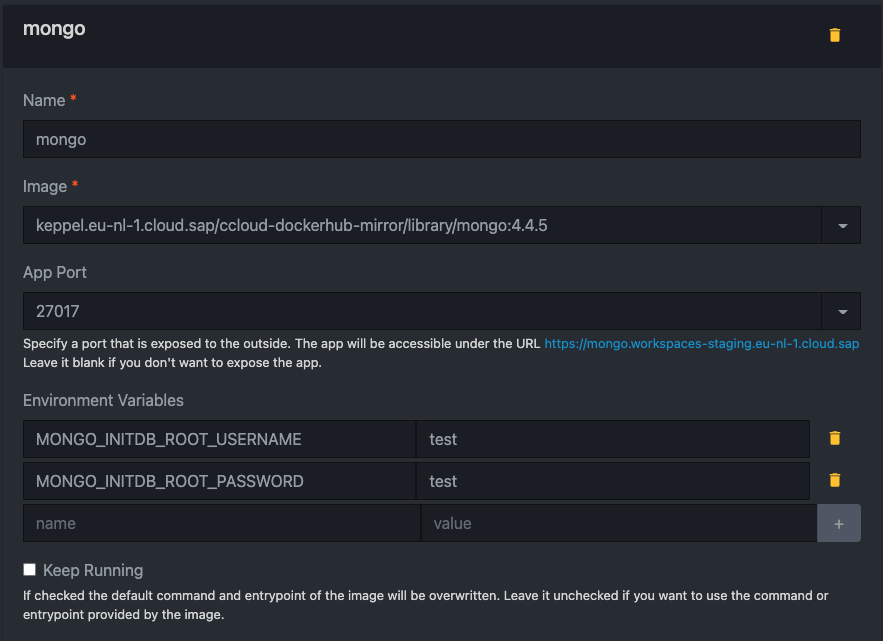
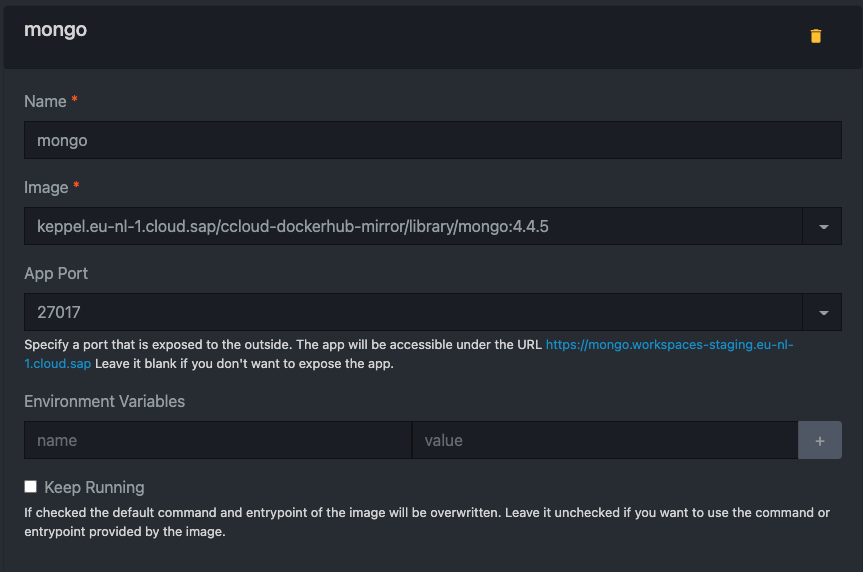
mercury: auhtentication checks added

diff --git a/apis/mercury/src/index.js b/apis/mercury/src/index.js
@@ -1,36 +1,43 @@
 require("dotenv").config()
-const { ApolloServer } = require("apollo-server")
-const fs = require("fs")
-const path = require("path")
-const resolvers = require("./resolvers")
-const { connect, close, db } = require("./dataStore")
-const { validateToken } = require("./tokenHandler")
 
+const {
+  ApolloServer,
+  AuthenticationError,
+  ForbiddenError,
+} = require("apollo-server")
+
+const typeDefs = require("./graphql/typeDefs")
+const resolvers = require("./graphql/resolvers")
+
+const { connect, getDB, close } = require("./dataStore")
+const { verifyAuthToken } = require("./identityProvider.js")
+
+// Create Apollo Server
 const server = new ApolloServer({
-  typeDefs: fs.readFileSync(path.join(__dirname, "schema.graphql"), "utf8"),
+  typeDefs,
   resolvers,
   cors: {
     origin: /.*\.cloud\.sap$/,
   },
-  context: async ({ req, res }) => {
-    // Get the user token from the headers.
-    // TODO: validate token against keystone and cache the verification if possible.
-    const token = req.headers["x-auth-token"] || ""
-    if (!token) {
-      return res
-        .status(401)
-        .send("No token provided. Could not find x-auth-token header!")
-    }
-    console.log("Token is presented!")
+  context: async ({ req }) => {
+    // The context function is executed before the Resolvers on each request!
 
-    const tokenPayload = await validateToken(token).catch((e) => {
-      console.log("ERROR:", e)
-      res.status(403).send("Could not validate token.")
+    // get authToken from headers
+    const authToken = req.headers["x-auth-token"] || ""
+    // ensure authToken is presented
+    if (!authToken)
+      throw new AuthenticationError(
+        "No auth token provided. Could not find x-auth-token header!"
+      )
+    // verify authToken from the Identity Provider (Keystone)
+    const tokenPayload = await verifyAuthToken(authToken).catch((e) => {
+      throw new ForbiddenError(e)
     })
-    if (!tokenPayload) return res.status(403).send("Could not validate token.")
-    console.log("Token is valid!")
 
-    return { db: db(), user: tokenPayload ? tokenPayload.user : null }
+    // get database
+    const db = getDB()
+    // enrich the context with authToken, token payload and database
+    return { authToken, tokenPayload, db }
   },
 })
 
@@ -38,10 +45,10 @@ server
   .listen({ port: process.env.PORT })
   .then(({ url }) => console.log(`Server is running on ${url}`))
   .then(() => {
-    console.log("Connect to database...")
-    connect()
+    console.log("Connect to the database...")
+    return connect()
   })
-  .then(() => console.log("connected!"))
+  .then(() => console.log("Connected!"))
 
 // close database connection on exit
 process.on("exit", close)

diff --git a/apis/mercury/src/dataStore.js b/apis/mercury/src/dataStore.js
@@ -18,22 +18,41 @@ const dbName = process.env.NODE_ENV === "test" ? "test" : "mercury"
 // db reference
 let _db
 
-const connect = async () => {
+/**
+ * This function connects to the mongo database.
+ * Once connected it stores the reference to database in _db.
+ */
+async function connect() {
   if (!_db) {
-    try {
-      if (!client.isConnected()) await client.connect()
-      _db = client.db(dbName)
-    } catch (e) {
-      console.log("--->error while connecting with graphql context (db)", e)
-    }
+    // if client was disconnected
+    if (!client.isConnected()) await client.connect()
+    // get the database by name
+    _db = client.db(dbName)
   }
+
+  return _db
 }
 
+let _dbCollections
+/**
+ * This function returns the database collections.
+ * The collections are cached for performance reasons!
+ */
+function getDB() {
+  if (!_db)
+    throw new Error("database is not connected! Please call connect() first.")
+  if (!_dbCollections) {
+    _dbCollections = {
+      Requests: _db.collection("requests"),
+      Users: _db.collection("users"),
+    }
+  }
+  return _dbCollections
+}
+
+// exports connect, getDB and close
 module.exports = {
   connect,
-  close: () => client.close(),
-  db: () => ({
-    Requests: _db.collection("requests"),
-    // Users: _db.collection("users"),
-  }),
+  getDB,
+  close: () => client.close,
 }

diff --git a/apis/mercury/src/identityProvider.js b/apis/mercury/src/identityProvider.js
@@ -1,6 +1,6 @@
 const https = require("https")
 
-const validateToken = (token) =>
+const verifyAuthToken = (authToken) =>
   new Promise((resolve, reject) => {
     https
       .request(
@@ -11,8 +11,8 @@ const validateToken = (token) =>
           method: "GET",
           headers: {
             "Content-Type": "application/json",
-            "X-Auth-Token": token,
-            "X-Subject-Token": token,
+            "X-Auth-Token": authToken,
+            "X-Subject-Token": authToken,
           },
         },
         (response) => {
@@ -32,6 +32,4 @@ const validateToken = (token) =>
       .end()
   })
 
-module.exports = {
-  validateToken,
-}
+module.exports = { verifyAuthToken }

diff --git a/apis/mercury/src/graphql/typeDefs.js b/apis/mercury/src/graphql/typeDefs.js
@@ -1,0 +1,26 @@
+const { gql } = require("apollo-server")
+
+module.exports = gql`
+  type Query {
+    requests: [Request!]!
+    request(id: ID!): Request
+  }
+
+  type Mutation {
+    createRequest(name: String!, description: String!): Request!
+    updateRequest(
+      id: ID!
+      name: String
+      description: String
+      status: String
+    ): Request
+    deleteRequest(id: ID!): Request
+  }
+
+  type Request {
+    id: ID!
+    name: String!
+    description: String!
+    status: String!
+  }
+`

diff --git a/apis/mercury/README.md b/apis/mercury/README.md
@@ -10,28 +10,16 @@ Mercury makes it possible to create and edit requests regardless of the context.
 
 A running mongodb server is required to develop the app. The connection to the server is configured via .env.
 
-`MONGO_ENDPOINT_URL="mongodb://test: test@localhost:27017"`
+`MONGO_HOST="localhost:27017"`
+
+For token verification is also IDENTITY_HOST required.
+
+`IDENTITY_HOST="identity-3.qa-de-1.cloud.sap"`
 
 ### Workspaces
 
 If you develop with workspaces, you can simply start a new environment with "mongo" image and access it in the project via localhost.
 
-**APP_PORT** is set to 27017
-and the two environment variables accordingly
-**MONGO_INITDB_ROOT_USERNAME** **MONGO_INITDB_ROOT_PASSWORD**
-
-Example:
-
-the following settings:
-
-```
-APP_PORT=27017
-MONGO_INITDB_ROOT_USERNAME=test
-MONGO_INITDB_ROOT_PASSWORD=test
-```
-
-result in
-
-`"mongodb://test:test@localhost:27017"`
+**APP_PORT** must be set to 27017
 
 ![Screenshot](./doc/mongo_env.png)
